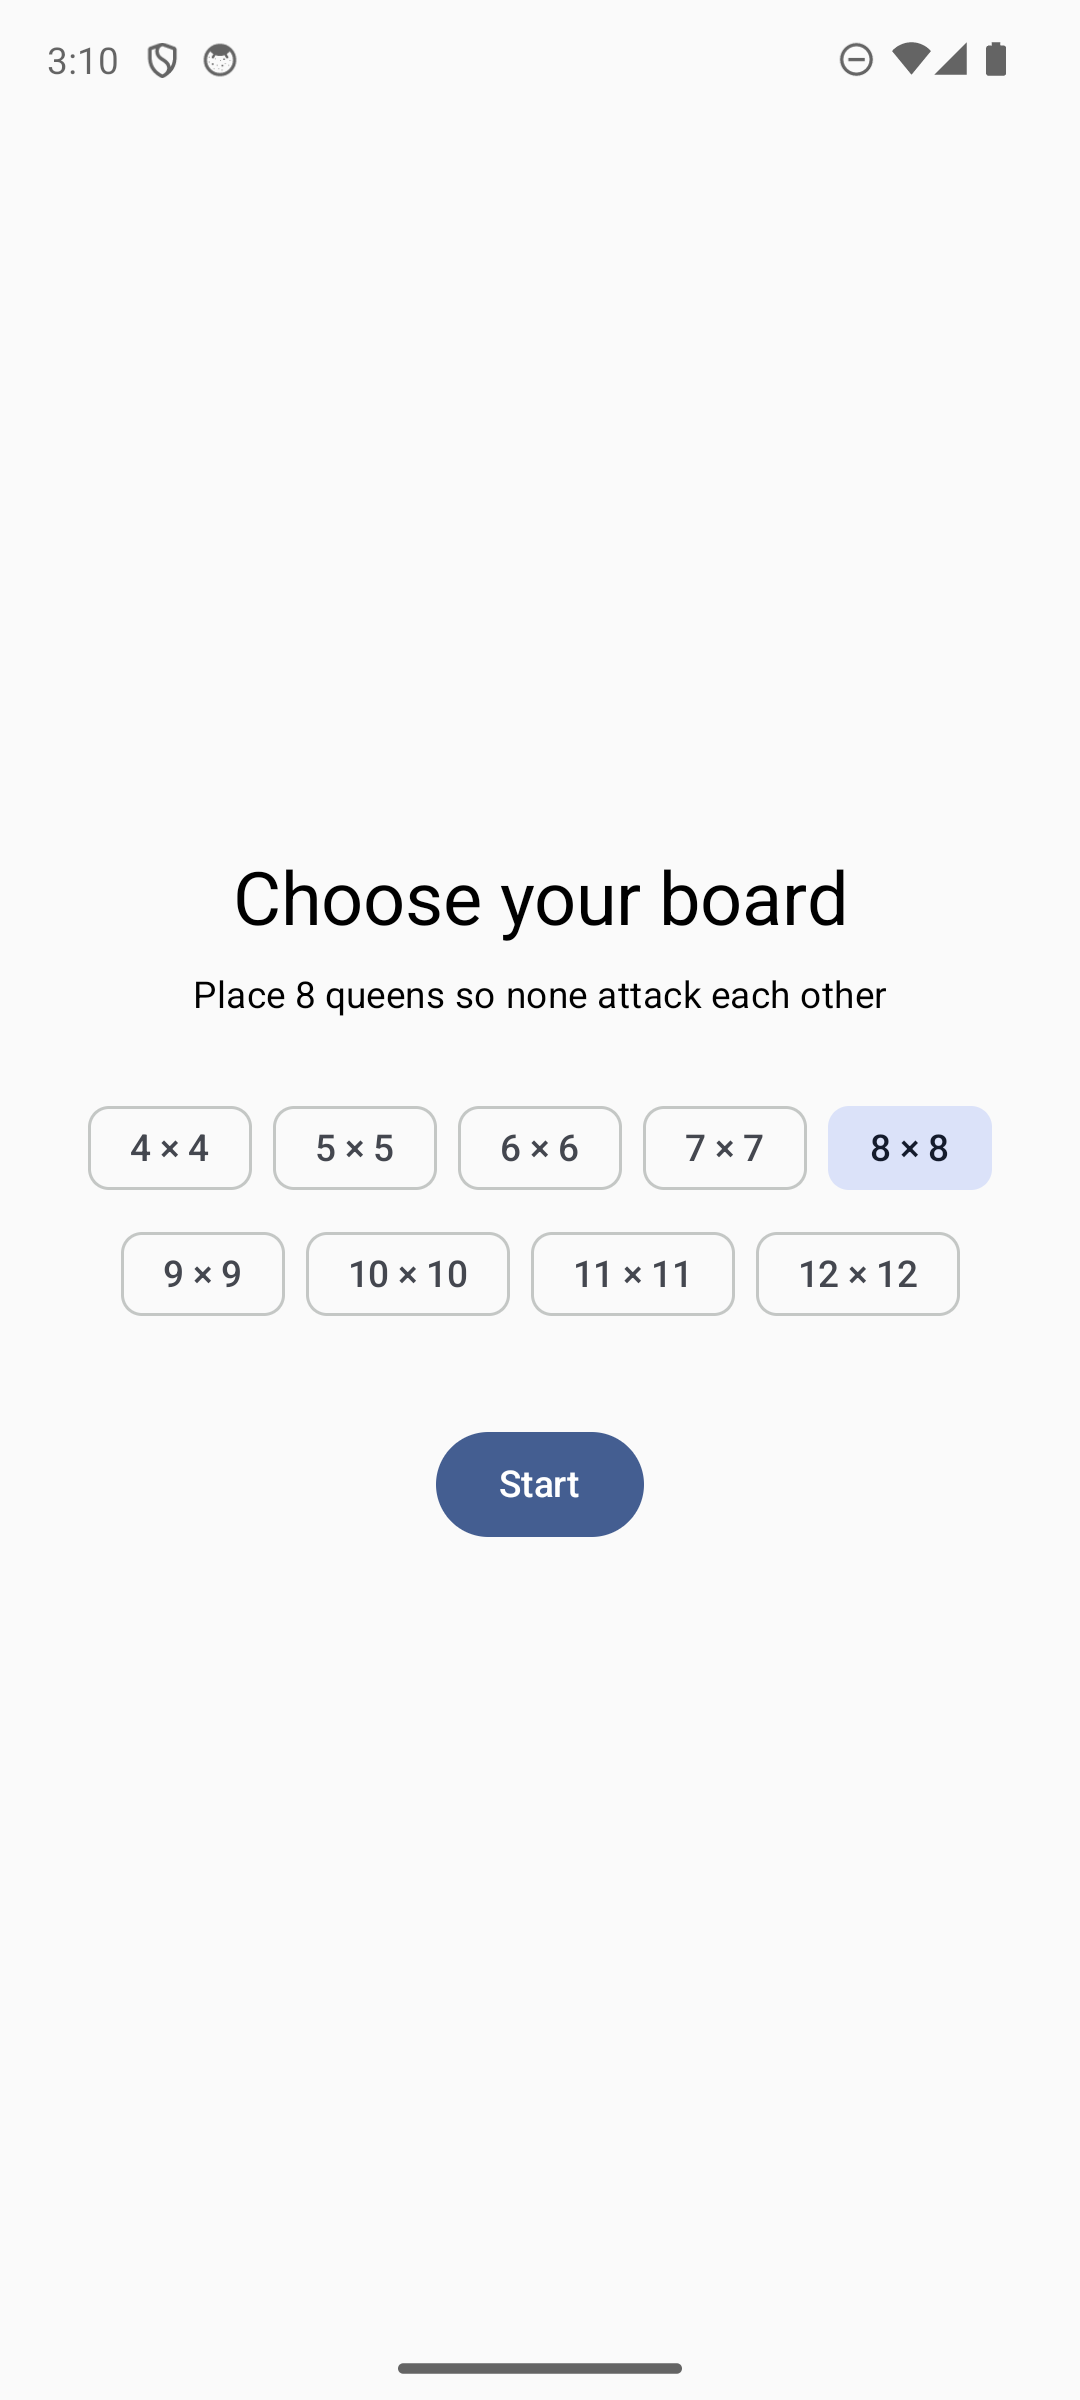
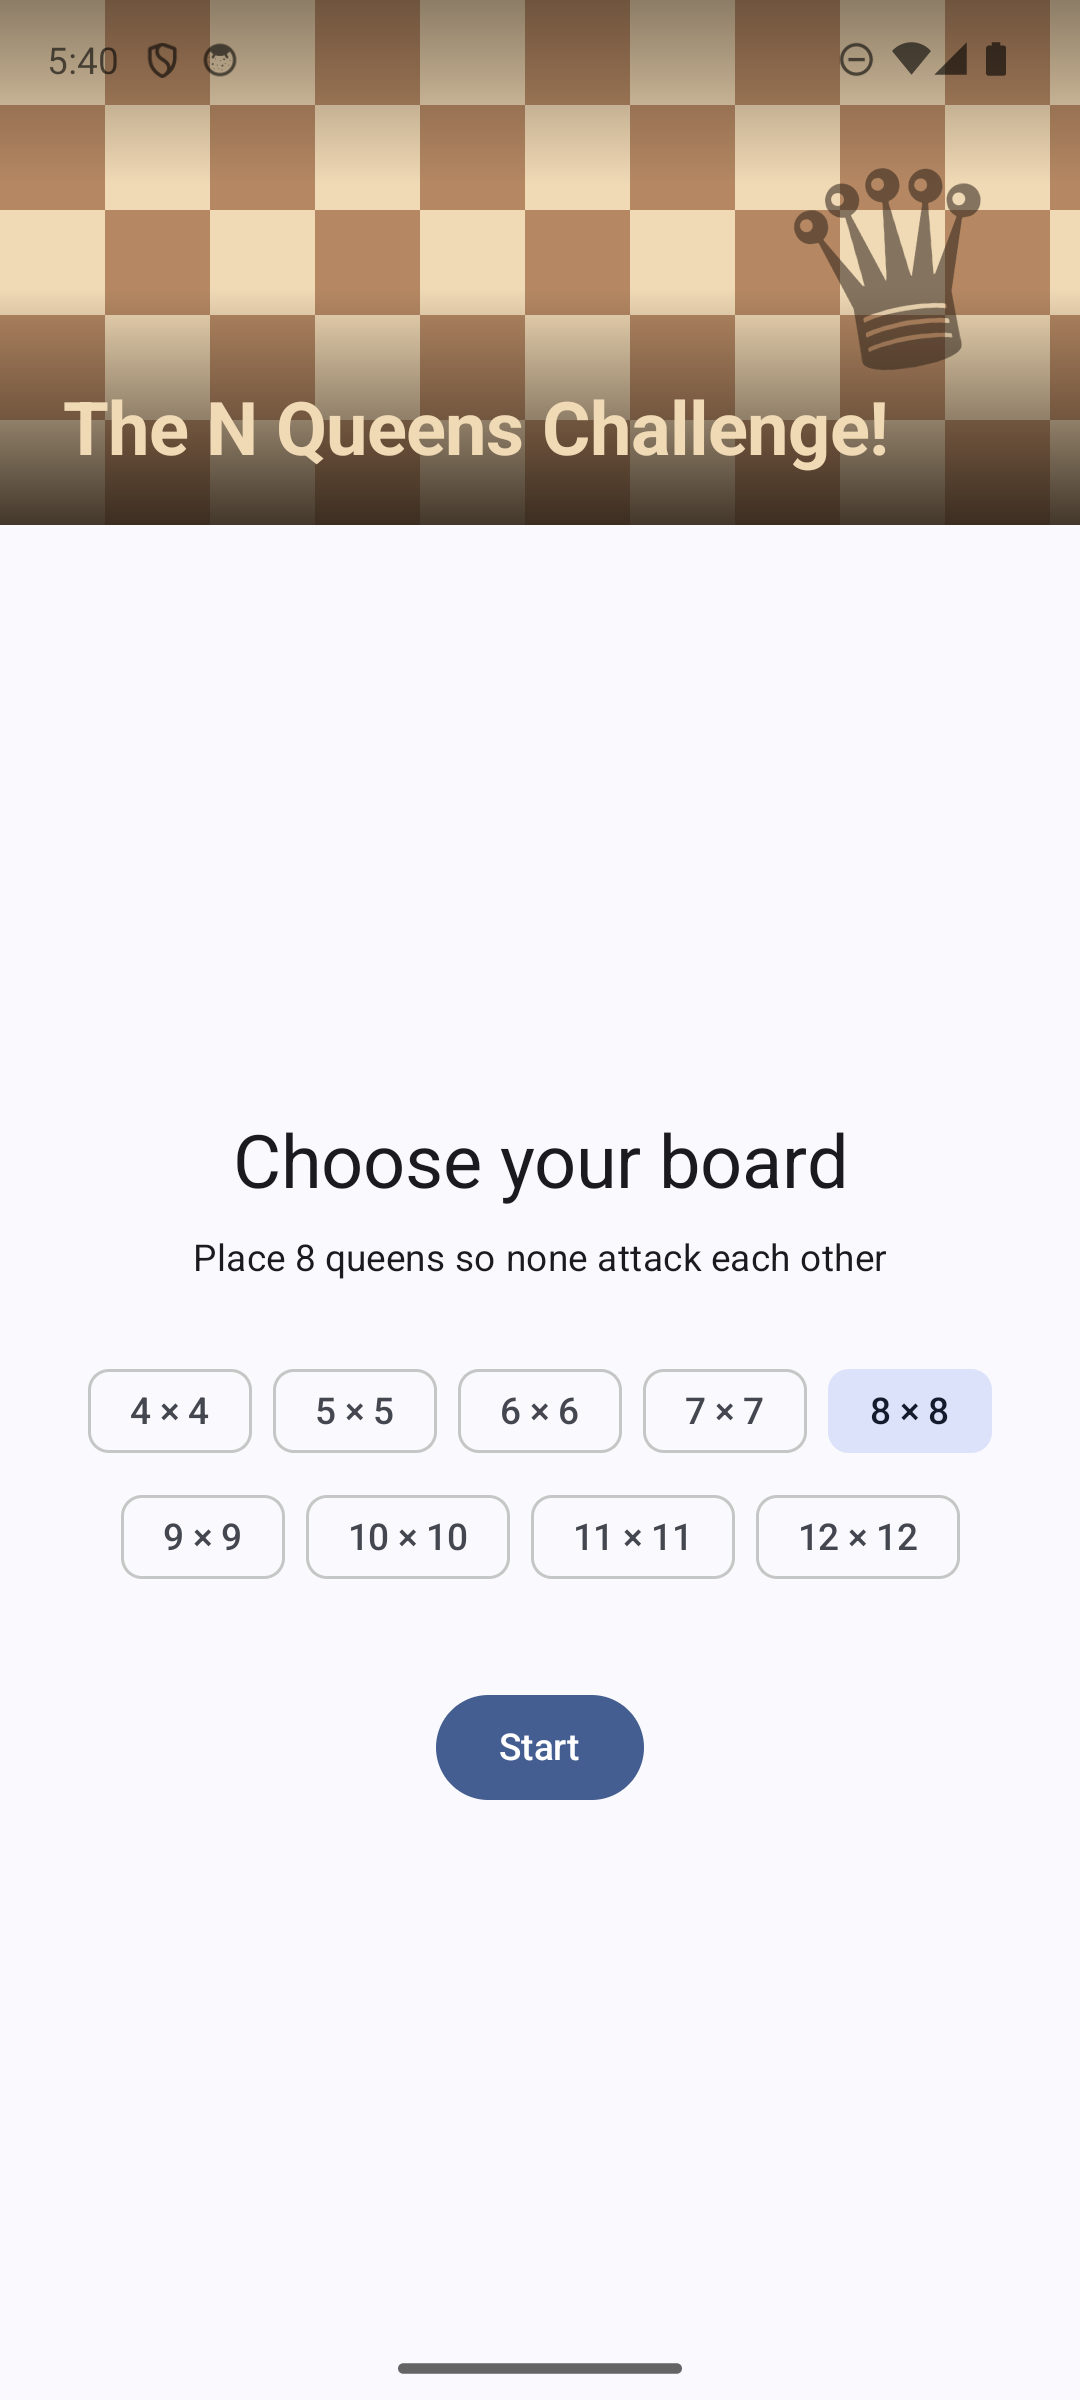
fix: paint theme background and add chess hero header

diff --git a/app/src/main/java/com/hdlp/thenqueens/ui/setup/SetupScreen.kt b/app/src/main/java/com/hdlp/thenqueens/ui/setup/SetupScreen.kt
@@ -1,6 +1,8 @@
 package com.hdlp.thenqueens.ui.setup
 
+import androidx.compose.foundation.Canvas
 import androidx.compose.foundation.layout.Arrangement
+import androidx.compose.foundation.layout.Box
 import androidx.compose.foundation.layout.Column
 import androidx.compose.foundation.layout.ExperimentalLayoutApi
 import androidx.compose.foundation.layout.FlowRow
@@ -20,45 +22,116 @@ import androidx.compose.runtime.saveable.rememberSaveable
 import androidx.compose.runtime.setValue
 import androidx.compose.ui.Alignment
 import androidx.compose.ui.Modifier
+import androidx.compose.ui.geometry.Offset
+import androidx.compose.ui.geometry.Size
+import androidx.compose.ui.graphics.Brush
+import androidx.compose.ui.graphics.Color
+import androidx.compose.ui.graphics.graphicsLayer
 import androidx.compose.ui.res.stringResource
+import androidx.compose.ui.text.font.FontWeight
 import androidx.compose.ui.unit.dp
+import androidx.compose.ui.unit.sp
 import com.hdlp.thenqueens.R
 import com.hdlp.thenqueens.domain.NQueensRules
+import com.hdlp.thenqueens.ui.theme.DarkSquare
+import com.hdlp.thenqueens.ui.theme.LightSquare
+import com.hdlp.thenqueens.ui.theme.QueenColor
+import kotlin.math.ceil
 
 const val MAX_PRESET_SIZE = 12
 
 @OptIn(ExperimentalLayoutApi::class)
 @Composable
-fun SetupScreen(onStart: (Int) -> Unit, modifier: Modifier = Modifier) {
+fun SetupScreen(
+    onStart: (Int) -> Unit,
+    modifier: Modifier = Modifier,
+) {
     var selectedSize by rememberSaveable { mutableIntStateOf(8) }
 
-    Column(
-        modifier = modifier.fillMaxSize().padding(24.dp),
-        horizontalAlignment = Alignment.CenterHorizontally,
-        verticalArrangement = Arrangement.Center,
-    ) {
-        Text(stringResource(R.string.setup_title), style = MaterialTheme.typography.headlineMedium)
-        Spacer(Modifier.height(8.dp))
-        Text(
-            stringResource(R.string.setup_subtitle, selectedSize),
-            style = MaterialTheme.typography.bodyMedium,
-        )
-        Spacer(Modifier.height(24.dp))
-        FlowRow(
-            modifier = Modifier.fillMaxWidth(),
-            horizontalArrangement = Arrangement.spacedBy(8.dp, Alignment.CenterHorizontally),
+    Column(modifier.fillMaxSize()) {
+        ChessHeader(Modifier.fillMaxWidth())
+        Column(
+            modifier = Modifier.weight(1f).fillMaxWidth().padding(24.dp),
+            horizontalAlignment = Alignment.CenterHorizontally,
+            verticalArrangement = Arrangement.Center,
         ) {
-            (NQueensRules.MIN_BOARD_SIZE..MAX_PRESET_SIZE).forEach { size ->
-                FilterChip(
-                    selected = size == selectedSize,
-                    onClick = { selectedSize = size },
-                    label = { Text(stringResource(R.string.board_size_option, size)) },
-                )
+            Text(
+                stringResource(R.string.setup_title),
+                style = MaterialTheme.typography.headlineMedium,
+            )
+            Spacer(Modifier.height(8.dp))
+            Text(
+                stringResource(R.string.setup_subtitle, selectedSize),
+                style = MaterialTheme.typography.bodyMedium,
+            )
+            Spacer(Modifier.height(24.dp))
+            FlowRow(
+                modifier = Modifier.fillMaxWidth(),
+                horizontalArrangement = Arrangement.spacedBy(8.dp, Alignment.CenterHorizontally),
+            ) {
+                (NQueensRules.MIN_BOARD_SIZE..MAX_PRESET_SIZE).forEach { size ->
+                    FilterChip(
+                        selected = size == selectedSize,
+                        onClick = { selectedSize = size },
+                        label = { Text(stringResource(R.string.board_size_option, size)) },
+                    )
+                }
+            }
+            Spacer(Modifier.height(32.dp))
+            Button(onClick = { onStart(selectedSize) }) {
+                Text(stringResource(R.string.start_game))
             }
         }
-        Spacer(Modifier.height(32.dp))
-        Button(onClick = { onStart(selectedSize) }) {
-            Text(stringResource(R.string.start_game))
+    }
+}
+
+// The header keeps the board's own palette in both themes, the way a physical
+// chessboard looks the same at night; the scrim keeps title and status bar readable.
+@Composable
+private fun ChessHeader(modifier: Modifier = Modifier) {
+    Box(modifier = modifier.height(200.dp)) {
+        Canvas(Modifier.matchParentSize()) {
+            val cell = 40.dp.toPx()
+            val cols = ceil(size.width / cell).toInt()
+            val rows = ceil(size.height / cell).toInt()
+            repeat(rows) { row ->
+                repeat(cols) { column ->
+                    drawRect(
+                        color = if ((row + column) % 2 == 0) LightSquare else DarkSquare,
+                        topLeft = Offset(column * cell, row * cell),
+                        size = Size(cell, cell),
+                    )
+                }
+            }
+            drawRect(
+                brush =
+                    Brush.verticalGradient(
+                        0f to QueenColor.copy(alpha = 0.50f),
+                        0.35f to Color.Transparent,
+                        0.55f to Color.Transparent,
+                        1f to QueenColor.copy(alpha = 0.88f),
+                    ),
+            )
         }
+        Text(
+            text = "♛",
+            fontSize = 96.sp,
+            color = QueenColor.copy(alpha = 0.55f),
+            modifier =
+                Modifier
+                    .align(Alignment.CenterEnd)
+                    .padding(end = 28.dp)
+                    .graphicsLayer { rotationZ = -10f },
+        )
+        Text(
+            text = stringResource(R.string.header_title),
+            style = MaterialTheme.typography.headlineMedium,
+            fontWeight = FontWeight.Bold,
+            color = LightSquare,
+            modifier =
+                Modifier
+                    .align(Alignment.BottomStart)
+                    .padding(horizontal = 24.dp, vertical = 18.dp),
+        )
     }
 }

diff --git a/app/src/main/java/com/hdlp/thenqueens/MainActivity.kt b/app/src/main/java/com/hdlp/thenqueens/MainActivity.kt
@@ -4,6 +4,10 @@ import android.os.Bundle
 import androidx.activity.ComponentActivity
 import androidx.activity.compose.setContent
 import androidx.activity.enableEdgeToEdge
+import androidx.compose.foundation.layout.fillMaxSize
+import androidx.compose.material3.MaterialTheme
+import androidx.compose.material3.Surface
+import androidx.compose.ui.Modifier
 import com.hdlp.thenqueens.ui.NQueensApp
 import com.hdlp.thenqueens.ui.theme.TheNQueensTheme
 import dagger.hilt.android.AndroidEntryPoint
@@ -15,7 +19,12 @@ class MainActivity : ComponentActivity() {
         enableEdgeToEdge()
         setContent {
             TheNQueensTheme {
-                NQueensApp()
+                Surface(
+                    modifier = Modifier.fillMaxSize(),
+                    color = MaterialTheme.colorScheme.background,
+                ) {
+                    NQueensApp()
+                }
             }
         }
     }
